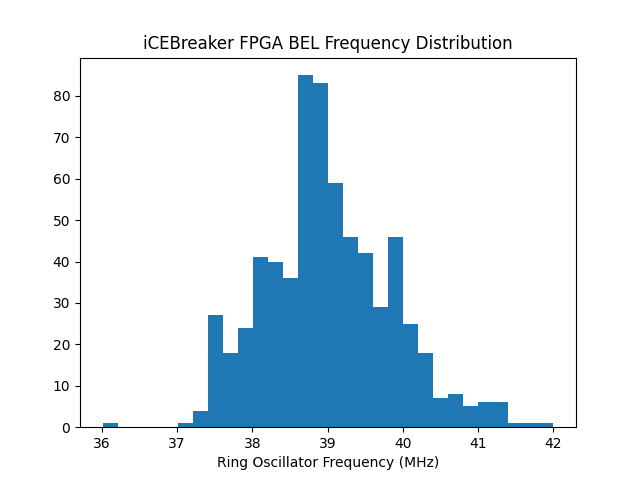
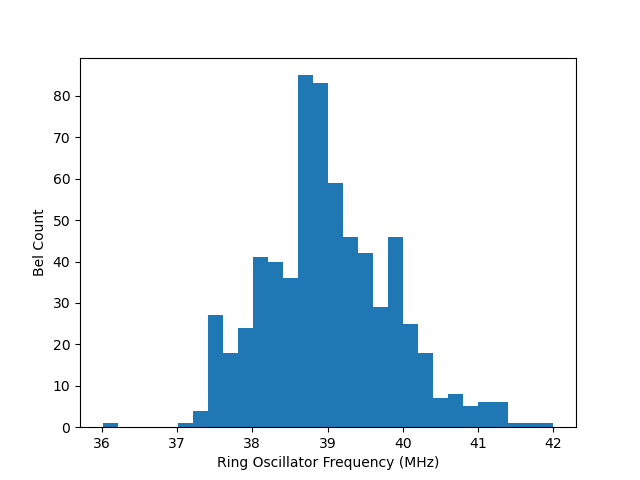
Remove chart titles, tweak axis labels

diff --git a/results/stats.py b/results/stats.py
@@ -63,11 +63,9 @@ def img_show(bel_means,mean,std,zscore=True):
     if zscore:
         graph_colorbar.set_label('Z-Score')
     else:
-        graph_colorbar.set_label('MHz difference squared between BELs')
-    if zscore:
-        plt.title('iCEBreaker FPGA BEL Variance', fontsize=12)
-    else:
-        plt.title('iCEBreaker Board Comparision', fontsize=12)
+        graph_colorbar.set_label('Difference Squared (MHz²)')
+    plt.xlabel('Bel X Coordinate')
+    plt.ylabel('Bel Y Coordinate')
     
     plt.show()
 
@@ -75,8 +73,8 @@ def histogram(bel_means):
     fig,ax=plt.subplots()
     bel_zscores=bel_means
     ax.hist(bel_zscores,bins=30)
-    plt.title('iCEBreaker FPGA BEL Frequency Distribution')
     plt.xlabel('Ring Oscillator Frequency (MHz)')
+    plt.ylabel('Bel Count')
     plt.show()
     
 def result_stats(file_name):
